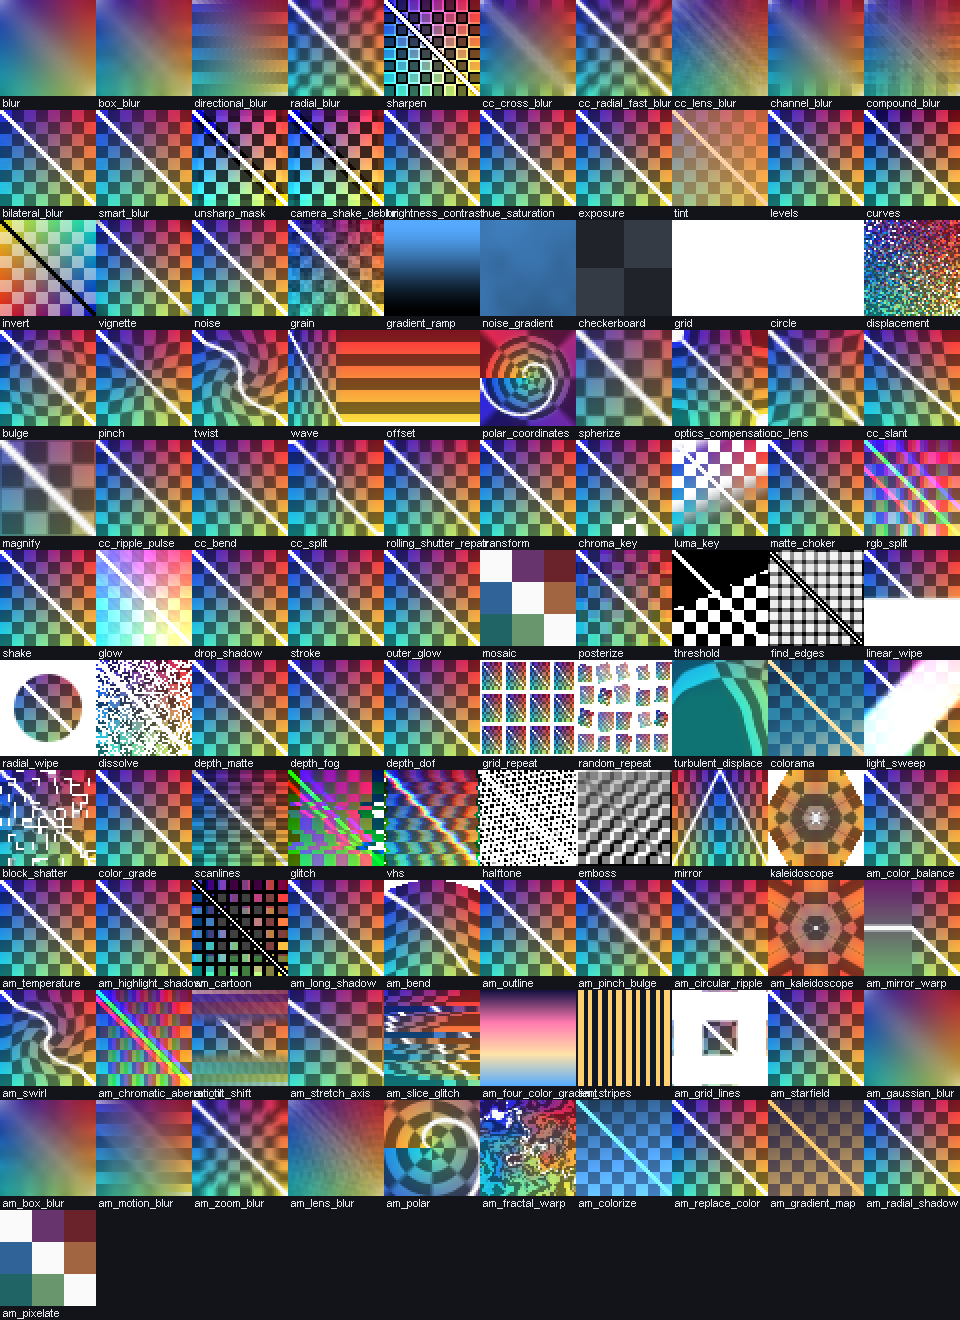
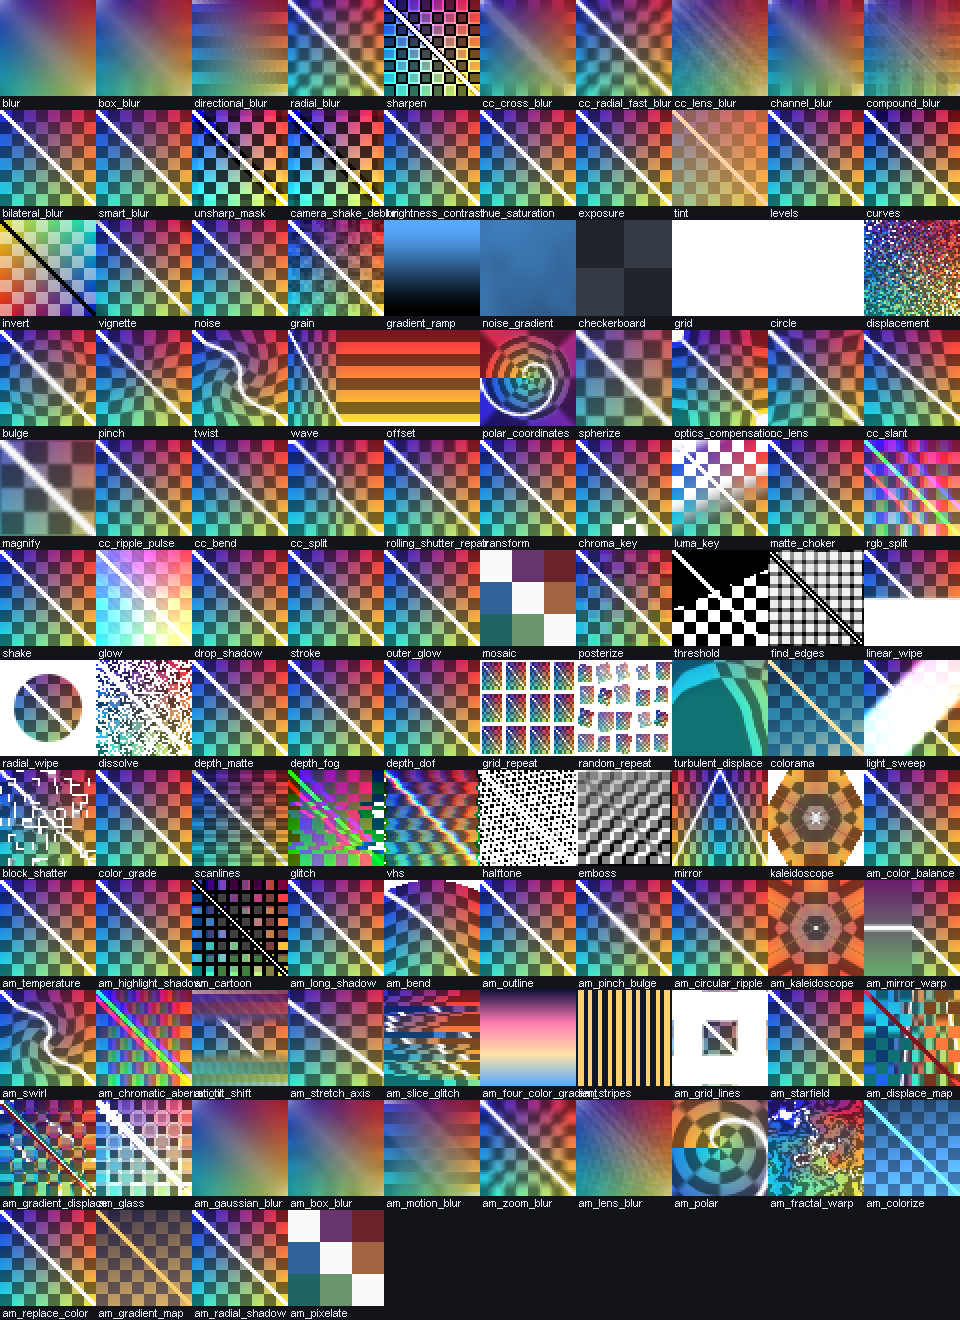
feat(0.31): backdrop-reading effects - displacement map, gradient displace, glass
- CompRenderContext.backdrop now carries the accumulated composition below the layer being
  processed; CompRenderer sets/restores it around the layer effect loop and the adjustment pass.
- AmEffectDef.comp() marks an effect that samples the composition through Comp; the renderer binds
  backdrop to unit 1 (falling back to the effect's own input when no backdrop exists, e.g. the
  3D layer-local bake or an isolated preview).
- New effects: 置换图 (RG/GB/luminance channels, amount in pixels), 渐变置换 (composition luma
  gradient), 玻璃 (refraction + tint + highlight).
- Prevents double application: backdrop effects are skipped by CompLayerSourceCache and forced into
  the composition pass by needsCompositionEffect, so a 3D plane applies them exactly once.
- Neutral declarations and shader link coverage for all three; full suite 319 tests green.
- Release bbsae-0.31.jar (SHA-256 9BE8A54FCEFB64624D8E3D038B9E42CEE5D05C8978CB09108CAAA8C2EA57F74F).

Changed region(s): [[0.0, 0.7455, 1.0, 1.0]]

diff --git a/src/main/java/dev/bbsae/comp/AmEffectLibrary.java b/src/main/java/dev/bbsae/comp/AmEffectLibrary.java
@@ -475,6 +475,74 @@ public final class AmEffectLibrary
             .p("alpha", "不透明度", 0F, 1F, 1F, 0.01F)
             .p("seed", "随机种子", 0F, 9999F, 0F, 1F));
 
+        add(new AmEffectDef("am_displace_map", "置换图", "AM · 变形", """
+            void main()
+            {
+                vec4 map = texture(Comp, vUv);
+                vec2 offset;
+
+                if (u_mode < 0.5)
+                {
+                    offset = (map.rg - 0.5) * 2.0;
+                }
+                else if (u_mode < 1.5)
+                {
+                    offset = (map.gb - 0.5) * 2.0;
+                }
+                else
+                {
+                    float y = luma(map.rgb);
+                    offset = vec2(y - 0.5, y - 0.5) * 2.0;
+                }
+
+                vec2 uv = vUv + offset * (u_amount / max(Size, vec2(1.0)));
+                vec4 c = texture(Source, clamp(uv, 0.0, 1.0));
+                fragColor = vec4(c.rgb, c.a);
+            }
+            """, 0.5F, "amount")
+            .comp()
+            .p("amount", "强度（像素）", 0F, 300F, 40F, 1F)
+            .p("mode", "通道（0 RG / 1 GB / 2 亮度）", 0F, 2F, 0F, 1F));
+
+        add(new AmEffectDef("am_gradient_displace", "渐变置换", "AM · 变形", """
+            void main()
+            {
+                float left = luma(texture(Comp, clamp(vUv - vec2(Texel.x, 0.0), 0.0, 1.0)).rgb);
+                float right = luma(texture(Comp, clamp(vUv + vec2(Texel.x, 0.0), 0.0, 1.0)).rgb);
+                float down = luma(texture(Comp, clamp(vUv - vec2(0.0, Texel.y), 0.0, 1.0)).rgb);
+                float up = luma(texture(Comp, clamp(vUv + vec2(0.0, Texel.y), 0.0, 1.0)).rgb);
+                vec2 gradient = vec2(right - left, up - down);
+                vec2 uv = vUv + gradient * (u_strength / max(Size, vec2(1.0)));
+                vec4 c = texture(Source, clamp(uv, 0.0, 1.0));
+                fragColor = vec4(c.rgb, c.a);
+            }
+            """, 0.5F, "strength")
+            .comp()
+            .p("strength", "强度（像素）", 0F, 400F, 60F, 1F));
+
+        add(new AmEffectDef("am_glass", "玻璃", "AM · 风格化", """
+            void main()
+            {
+                vec4 c = texture(Source, vUv);
+                float left = luma(texture(Comp, clamp(vUv - vec2(Texel.x, 0.0), 0.0, 1.0)).rgb);
+                float right = luma(texture(Comp, clamp(vUv + vec2(Texel.x, 0.0), 0.0, 1.0)).rgb);
+                float down = luma(texture(Comp, clamp(vUv - vec2(0.0, Texel.y), 0.0, 1.0)).rgb);
+                float up = luma(texture(Comp, clamp(vUv + vec2(0.0, Texel.y), 0.0, 1.0)).rgb);
+                vec2 gradient = vec2(right - left, up - down);
+                vec2 offset = gradient * (u_strength / max(Size, vec2(1.0)));
+                vec3 refracted = texture(Source, clamp(vUv + offset, 0.0, 1.0)).rgb;
+                float brightness = dot(refracted, vec3(0.299, 0.587, 0.114));
+                vec3 tinted = mix(refracted, vec3(brightness) * u_tint.rgb * 2.0, clamp(u_tint_amount, 0.0, 1.0));
+                float shine = clamp(length(gradient) * u_shine, 0.0, 1.0);
+                fragColor = vec4(clamp(tinted + shine, 0.0, 1.0), c.a);
+            }
+            """, 0.5F, "strength")
+            .comp()
+            .p("strength", "折射强度", 0F, 200F, 24F, 1F)
+            .p("tint_amount", "着色", 0F, 1F, 0.15F, 0.01F)
+            .p("shine", "高光", 0F, 4F, 1.2F, 0.01F)
+            .c("tint", "玻璃颜色", 0xFF9FD8FF));
+
         add(new AmEffectDef("am_gaussian_blur", "高斯模糊", "AM · 模糊", """
             void main()
             {
@@ -711,6 +779,14 @@ public final class AmEffectLibrary
     public static boolean supports(String id)
     {
         return DEFS.containsKey(id);
+    }
+
+    /** True when this effect samples the composition below its layer. */
+    public static boolean usesComp(String id)
+    {
+        AmEffectDef definition = get(id);
+
+        return definition != null && definition.usesComp;
     }
 
     /** True when the effect cannot change the input at the current parameter values. */

diff --git a/src/main/java/dev/bbsae/client/render/CompRenderer.java b/src/main/java/dev/bbsae/client/render/CompRenderer.java
@@ -687,6 +687,15 @@ public final class CompRenderer
                     ? java.util.Collections.emptyList()
                     : layer.effects;
 
+                /* Backdrop-reading effects (displacement maps, glass) sample what is already
+                 * composited below this layer. Keep the previous value so nested precomps and the
+                 * adjustment pass can restore their own. */
+                GlFramebuffer previousBackdrop = context.backdrop;
+
+                context.backdrop = accumulation;
+
+                try
+                {
                 for (CompEffect effect : effects)
                 {
                     if (!renderEffects || effect == null || !effect.enabled)
@@ -716,6 +725,11 @@ public final class CompRenderer
                         FboPool.release(content);
                         content = processed;
                     }
+                }
+                }
+                finally
+                {
+                    context.backdrop = previousBackdrop;
                 }
 
                 /* Styles were baked into the layer-space raster together with the effects; running
@@ -1202,26 +1216,36 @@ public final class CompRenderer
         GlFramebuffer processed = original;
         boolean changed = false;
         Matrix4f space = new Matrix4f();
+        GlFramebuffer previousBackdrop = context.backdrop;
 
-        for (CompEffect effect : layer.effects)
+        context.backdrop = original;
+
+        try
         {
-            if (effect == null || !effect.enabled)
+            for (CompEffect effect : layer.effects)
             {
-                continue;
-            }
-
-            GlFramebuffer next = EffectRenderer.apply(layer, layer.resolveEffect(effect, context.frame), processed, context, space);
-
-            if (next != processed)
-            {
-                if (processed != original)
+                if (effect == null || !effect.enabled)
                 {
-                    FboPool.release(processed);
+                    continue;
                 }
 
-                processed = next;
-                changed = true;
+                GlFramebuffer next = EffectRenderer.apply(layer, layer.resolveEffect(effect, context.frame), processed, context, space);
+
+                if (next != processed)
+                {
+                    if (processed != original)
+                    {
+                        FboPool.release(processed);
+                    }
+
+                    processed = next;
+                    changed = true;
+                }
             }
+        }
+        finally
+        {
+            context.backdrop = previousBackdrop;
         }
 
         if (!changed)
@@ -1311,8 +1335,11 @@ public final class CompRenderer
         }
 
         boolean depth = effect.type != null && effect.type.startsWith("depth_");
+        /* A backdrop-reading effect must run after projection, where the accumulated composition
+         * below the layer exists; the baked 3D raster has no backdrop to sample. */
+        boolean comp = dev.bbsae.comp.AmEffectLibrary.usesComp(effect.type);
 
-        return !effectsBaked || depth;
+        return !effectsBaked || depth || comp;
     }
 
     /**

diff --git a/src/main/java/dev/bbsae/client/render/AmEffectRenderer.java b/src/main/java/dev/bbsae/client/render/AmEffectRenderer.java
@@ -85,6 +85,15 @@ public final class AmEffectRenderer
         program.use();
         PassRenderer.bind(program, "Source", 0, input);
 
+        if (definition.usesComp)
+        {
+            /* The composition below the layer when the pipeline provides it; the effect's own
+             * input is the documented fallback for baked 3D layers and isolated previews. */
+            GlFramebuffer backdrop = context == null ? null : context.backdrop;
+
+            PassRenderer.bind(program, "Comp", 1, backdrop == null ? input : backdrop);
+        }
+
         space.bind(program);
         program.set("Size", input.width, input.height);
         program.set("Texel", 1F / Math.max(1, input.width), 1F / Math.max(1, input.height));
@@ -148,6 +157,7 @@ public final class AmEffectRenderer
             #version 150 core
 
             uniform sampler2D Source;
+            uniform sampler2D Comp;
             uniform vec2 Size;
             uniform vec2 Texel;
             uniform vec2 LayerSize;

diff --git a/src/main/java/dev/bbsae/client/render/CompRenderContext.java b/src/main/java/dev/bbsae/client/render/CompRenderContext.java
@@ -54,6 +54,14 @@ public final class CompRenderContext
     /** Cached {@link CompScene#spatial} answer for this frame. */
     public Boolean spatial;
     /** Per-frame scene graph caches: one matrix per layer, not one per call site. */
+    /**
+     * The accumulated composition below the layer currently being processed. Effect programmes
+     * that read the backdrop (displacement maps, glass, light wrap) sample this; it is null while
+     * no layer pass is active (for example inside the 3D layer bake), where such effects fall back
+     * to their own source texture.
+     */
+    public GlFramebuffer backdrop;
+
     public final java.util.IdentityHashMap<CompLayer, Matrix4f> localCache = new java.util.IdentityHashMap<>();
     public final java.util.IdentityHashMap<CompLayer, Matrix4f> worldCache = new java.util.IdentityHashMap<>();
     public final java.util.IdentityHashMap<CompLayer, Matrix4f> modelCache = new java.util.IdentityHashMap<>();

diff --git a/src/test/java/dev/bbsae/comp/AmEffectLibraryTest.java b/src/test/java/dev/bbsae/comp/AmEffectLibraryTest.java
@@ -37,7 +37,7 @@ public class AmEffectLibraryTest
             assertTrue(definition.body.contains("fragColor"), "body writes no colour: " + definition.id);
         }
 
-        assertTrue(ids.size() >= 32, "the catalogue should have grown with the generative batch");
+        assertTrue(ids.size() >= 35, "the catalogue should have grown with the backdrop batch");
     }
 
     @Test
@@ -89,6 +89,9 @@ public class AmEffectLibraryTest
         assertNeutral("am_stripes", "alpha", 0F);
         assertNeutral("am_grid_lines", "alpha", 0F);
         assertNeutral("am_starfield", "alpha", 0F);
+        assertNeutral("am_displace_map", "amount", 0F);
+        assertNeutral("am_gradient_displace", "strength", 0F);
+        assertNeutral("am_glass", "strength", 0F);
 
         CompEffect balance = CompEffectRegistry.create("am_color_balance", 1);
 

diff --git a/src/main/java/dev/bbsae/comp/AmEffectDef.java b/src/main/java/dev/bbsae/comp/AmEffectDef.java
@@ -31,6 +31,8 @@ public final class AmEffectDef
     public String blurKey;
     public boolean boxBlur;
     public String iterationsKey;
+    /** True when the body samples the composition below the layer ({@code Comp}). */
+    public boolean usesComp;
 
     public final List<Param> params = new ArrayList<>();
     public final List<ColorParam> colors = new ArrayList<>();
@@ -61,6 +63,14 @@ public final class AmEffectDef
         {
             this.zeroKeys.add(key);
         }
+
+        return this;
+    }
+
+    /** Declares that the body samples the composition below the layer through {@code Comp}. */
+    public AmEffectDef comp()
+    {
+        this.usesComp = true;
 
         return this;
     }

diff --git a/src/main/java/dev/bbsae/client/render/CompLayerSourceCache.java b/src/main/java/dev/bbsae/client/render/CompLayerSourceCache.java
@@ -532,7 +532,11 @@ public final class CompLayerSourceCache
 
             String type = effect.type == null ? "" : effect.type;
 
-            if (type.startsWith("depth_") || "shake".equals(type))
+            /* Depth effects need the projected frame, shake samples the composition and backdrop
+             * effects need the accumulated comp below the layer - none of them exist inside the
+             * layer-local bake, so they run once in the composition pass instead. */
+            if (type.startsWith("depth_") || "shake".equals(type)
+                || dev.bbsae.comp.AmEffectLibrary.usesComp(type))
             {
                 continue;
             }

diff --git a/README.md b/README.md
@@ -110,15 +110,15 @@ export** without touching the `.dat` film format.
 
 ## Download / Install
 
-1. Download [`bbsae-0.30.jar`](https://github.com/zhongend/bbsae/releases/download/v0.30/bbsae-0.30.jar)
-   from the **v0.30** release (the asset is updated with each source push).
+1. Download [`bbsae-0.31.jar`](https://github.com/zhongend/bbsae/releases/download/v0.31/bbsae-0.31.jar)
+   from the **v0.31** release (the asset is updated with each source push).
 2. Install **Minecraft 1.20.1**, **Fabric Loader 0.16.14+**, **Fabric API 0.92.1+1.20.1** and
    **BBS FS 2.7-1.20.1**.
-3. Put `bbsae-0.30.jar` and the BBS FS jar into the game's `mods/` folder.
+3. Put `bbsae-0.31.jar` and the BBS FS jar into the game's `mods/` folder.
 4. Launch the game, open a film in BBS, select a replay, then use
    **Replay properties → Compositor → Open Film Compositor**.
 
[2 lines of base64/hex data omitted]
 
 ## Gallery
 
@@ -185,6 +185,18 @@ The compositor does not re-encode films or patch `.dat` files. BBS serializes a 
 `RegisterFrameOverlaysEvent` point. That means the same composition appears in BBS's preview and in
 its FFmpeg film export, and BBS keeps ownership of keyframes, undo, project storage and video
 encoding.
+
+## What's new in 0.31 — backdrop-reading effects (displacement map, gradient displace, glass)
+
+- The effect pipeline now hands each layer the **composition below it**: `CompRenderContext.backdrop`
+  is set around the layer effect loop and the adjustment pass, and `AmEffectDef.comp()` marks
+  effects that sample it through `Comp`.
+- **置换图** (RG/GB/luminance channels, amount in layer pixels), **渐变置换** (composition gradient),
+  **玻璃** (refraction + tint + highlight) added under `AM · 变形` / `AM · 风格化`.
+- Backdrop effects are excluded from the layer-local 3D bake and run once after projection, so a 3D
+  plane cannot apply them twice; without a backdrop (isolated preview) they fall back to their own
+  input instead of failing.
+- 319 tests green.
 
 ## What's new in 0.30 — zero value is proven pixel by pixel
 

diff --git a/docs/EFFECT-LIBRARY-PLAN.zh.md b/docs/EFFECT-LIBRARY-PLAN.zh.md
@@ -45,7 +45,7 @@
 新增三层，效果不再需要写进 `EffectRenderer` 的巨型 switch：
 
 - `comp/AmEffectDef`：id、显示名、分类、参数表（float/color）、`main()` 片段、零点参数。
-- `comp/AmEffectLibrary`：32 个效果的定义（色彩平衡、色温、高光与阴影、卡通、长阴影、
+- `comp/AmEffectLibrary`：35 个效果的定义（色彩平衡、色温、高光与阴影、卡通、长阴影、
   弯曲、描边、收缩与膨胀、圆形波纹、万花筒、镜像、旋转扭曲、像素化、极坐标、分形扭曲、
   色彩化、替换颜色、渐变映射、径向阴影），参数名/范围/默认值与参考应用一致。
 - `client/render/AmEffectRenderer`：按定义拼装完整 fragment（标准 uniform + 参数 uniform +
@@ -148,6 +148,12 @@ switch 中拆出来：
 4.6 **第三批**（极坐标、分形扭曲、色彩化、替换颜色、渐变映射、径向阴影；已完成）
 4.7 **模糊批**（高斯/方框/动感/径向/镜头模糊；已完成，纯模糊效果走两次可分离 pass）
 4.8 **第四批**（彩色像差、移轴模糊、轴向拉伸、切片故障、四色渐变、条纹、网格、星空；已完成）
+4.9 **背景采样批**（置换图、渐变置换、玻璃；已完成）
+    - `CompRenderContext.backdrop` 承载"当前图层下方的合成"，由 `CompRenderer` 在图层效果循环与
+      调整层处理期间设置/恢复；
+    - `AmEffectDef.comp()` 声明效果读取 `Comp`，渲染器绑定 backdrop（无 backdrop 时回退到自身输入）；
+    - `needsCompositionEffect` 与 3D 烘焙的过滤条件都会跳过背景类效果，保证它们只在合成阶段
+      **执行一次**（3D 图层不会重复应用）。
 5. **生成/风格化**：checker、grid、stripes、starfield、clouds、halftone、scanline、noise grain
    （噪点与颗粒按要求保持现状）
 6. **3D 与文字**：s3d-* 形状与 text 效果（依赖 3D 管线，放到最后一批）
